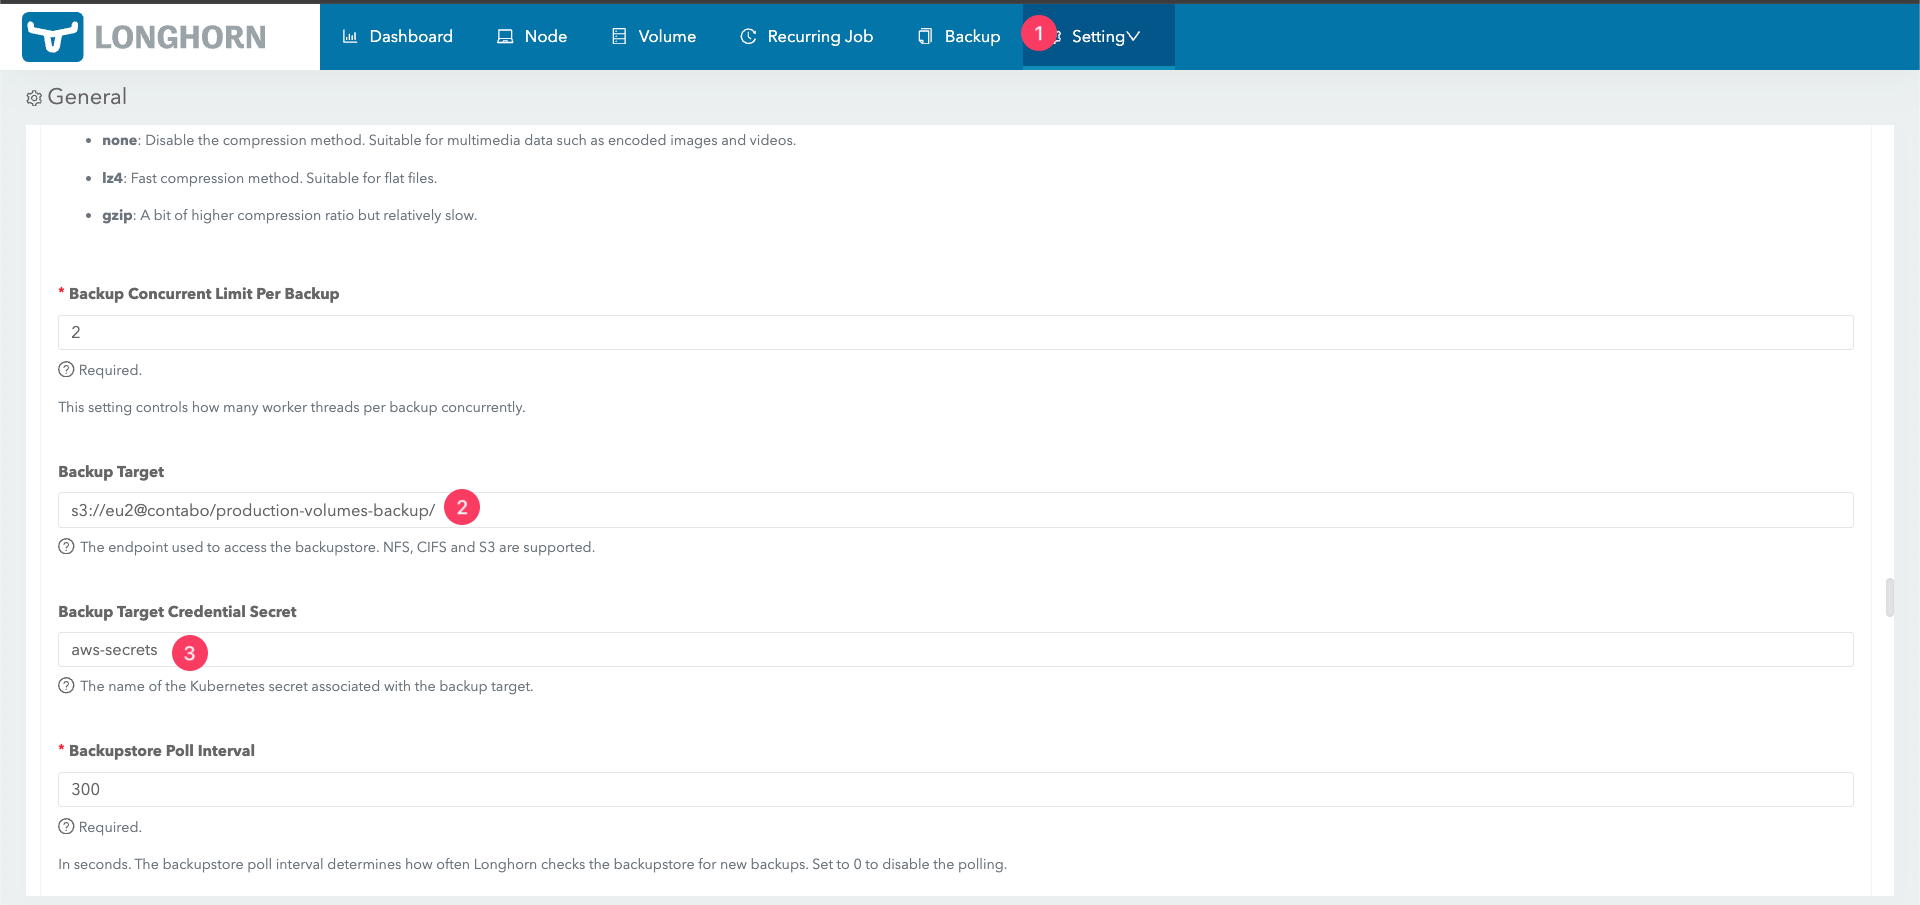
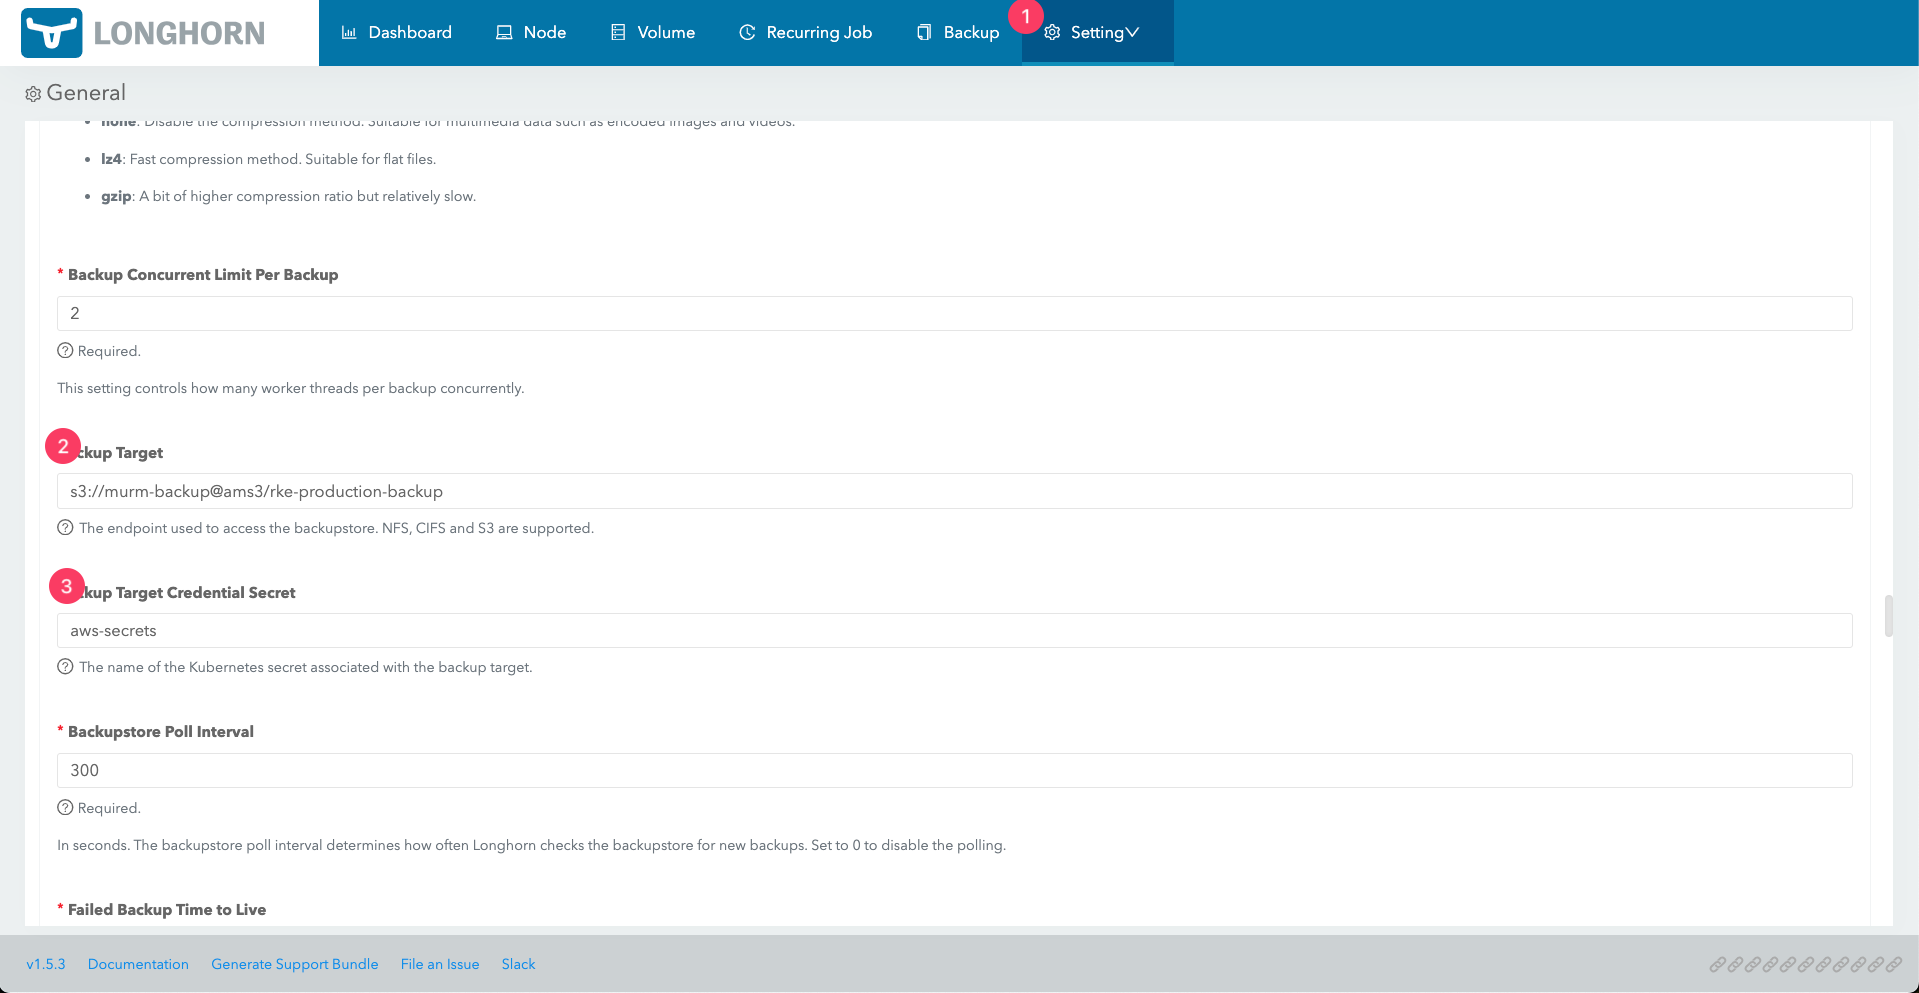
doc: update recurring-backup.md (#715)

diff --git a/docs/rancher/06-setup-longhorn/recurring-backup.md b/docs/rancher/06-setup-longhorn/recurring-backup.md
@@ -2,12 +2,12 @@
 
 ## Introduction
 
-This document provides a step-by-step guide on setting up recurring backups for your data using Contabo object storage. By following these steps, you will create a backup bucket in Contabo, generate access credentials, create a Kubernetes secret, and configure the backup settings in Longhorn.
+This document provides a step-by-step guide on setting up recurring backups for your data using DigitalOcean object storage. By following these steps, you will create a space in DigitalOcean, generate access credentials, create a Kubernetes secret, and configure the backup settings in Longhorn.
 
 ## Table of Contents
 
 - [Introduction](#introduction)
-- [Step 1 - Creating a Bucket in Contabo Object Storage](#step-1---creating-a-bucket-in-contabo-object-storage)
+- [Step 1 - Creating a Space in DigitalOcean Object Storage](#step-1---creating-a-space-in-digitalocean-object-storage)
 - [Step 2 - Obtaining Access Key and Secret Key](#step-2---obtaining-access-key-and-secret-key)
 - [Step 3 - Creating a Kubernetes Secret](#step-3---creating-a-kubernetes-secret)
 - [Step 4 - Configuring Backup Settings in Longhorn](#step-4---configuring-backup-settings-in-longhorn)
@@ -16,17 +16,21 @@ This document provides a step-by-step guide on setting up recurring backups for 
 - [Step 7 - Creating Recurring Backups](#step-7---creating-recurring-backups)
 - [Conclusion](#conclusion)
 
-## Step 1 - Creating a Bucket in Contabo Object Storage
+## Step 1 - Creating a Space in DigitalOcean Object Storage
 
-Go to the Contabo object storage page to create a bucket.
+Navigate to the DigitalOcean Object Storage page to create a space.
 
-![Contabo Bucket Creation](./assets/images/contabo-bucket-creation.png)
+![DigitalOcean Space Creation 1](./assets/images/do-space-creation-1.png)
+
+Choose "Amsterdam" for the datacenter region, provide a unique space name, and then click "Create".
+
+![DigitalOcean Space Creation 2](./assets/images/do-space-creation-2.png)
 
 ## Step 2 - Obtaining Access Key and Secret Key
 
-Retrieve the access key and secret key provided after creating your bucket.
+Navigate to the "Applications & API" section on DigitalOcean and create a Spaces access key.
 
-![Contabo Secret Keys](./assets/images/contabo-secret-keys.png)
+![Do Secret Keys](./assets/images/do-secret-keys.png)
 
 ## Step 3 - Creating a Kubernetes Secret
 
@@ -42,21 +46,22 @@ Replace `<your_access_key>` and `<your_secret_key>` with your actual credentials
 kubectl create secret generic aws-secrets \
   --from-literal=AWS_ACCESS_KEY_ID=<your_access_key> \
   --from-literal=AWS_SECRET_ACCESS_KEY=<your_secret_key> \
-  --from-literal=AWS_ENDPOINTS='https://contabostorage.com/' \
-  --from-literal=AWS_REGION=default \
-  --from-literal=VIRTUAL_HOSTED_STYLE=true \
+  --from-literal=AWS_ENDPOINTS='https://ams3.digitaloceanspaces.com' \
+  --from-literal=AWS_REGION=us-east-1 \
+  --from-literal=VIRTUAL_HOSTED_STYLE=false \
   -n longhorn-system
 ```
 
 ## Step 4 - Configuring Backup Settings in Longhorn
 
-Navigate to the Longhorn UI. In the top navigation bar, click on "Settings". Under the "Backup" section, set the Backup Target to:
+Access the Longhorn user interface. Click on "Settings" in the top navigation bar. Within the "Backup" section, specify your Backup Target using the following format:
 
 ```bash
-s3://eu2@contabo/<bucket-name>/
+s3://[SPACENAME]@[REGION]/[FOLDER-NAME]
+# For example: s3://mybackup@ams3/myfolder-backups
 ```
 
-Replace `<bucket-name>` with the actual name of your bucket.
+This configuration directs Longhorn to store backups in the specified S3-compatible storage location. Replace `[SPACENAME]` with the name of your space, `[REGION]` with the region of your storage, and `[FOLDER-NAME]` with your desired folder name for the backups.
 
 For the Backup Target Credential Secret, use:
 
@@ -93,6 +98,6 @@ Change the task to "Backup", click "Add to Default Group", and then click "OK".
 
 ## Conclusion
 
-With the successful configuration of recurring backups using Contabo object storage and Longhorn, you have now ensured the safety and availability of your data.
+With the successful configuration of recurring backups using DigitalOcean object storage and Longhorn, you have now ensured the safety and availability of your data.
 
 Go back to [Home](../README.md).
